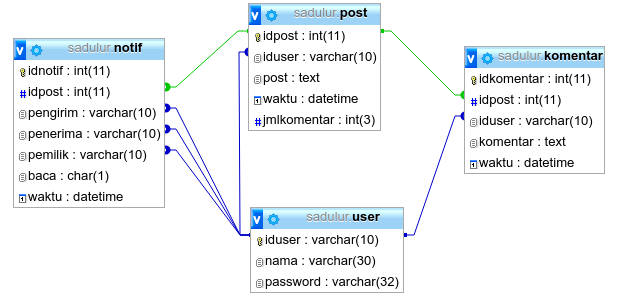
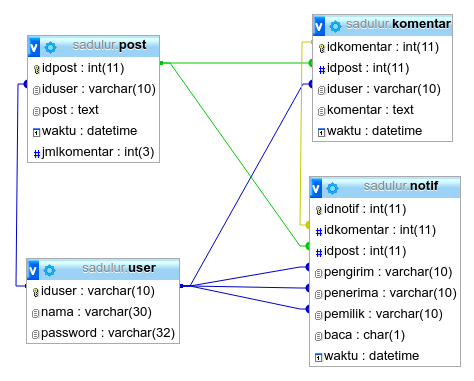
Fix bug notif :tada:

diff --git a/src/java/Dao/NotifDao.java b/src/java/Dao/NotifDao.java
@@ -41,8 +41,8 @@ import java.util.List;
 public class NotifDao {
     private Connection koneksi = new Koneksi().getKoneksi();
     private final String addNotif = "INSERT INTO "
-                                  + "notif(idpost, pengirim, penerima, baca, waktu, pemilik) "
-                                  + "values(?,?,?,?,?,?)";
+                                  + "notif(idkomentar, idpost, pengirim, penerima, baca, waktu, pemilik) "
+                                  + "values(?,?,?,?,?,?,?)";
     private final String getAll = "SELECT notif.*, Pengirim.nama AS namaPengirim, "
                                 + "Penerima.nama AS namaPenerima, Pemilik.nama AS namaPemilik "
                                 + "FROM notif "
@@ -86,6 +86,7 @@ public class NotifDao {
             while(rs.next()) {
                 Notif notif = new Notif();
                 notif.setIdNotif(rs.getInt("idnotif"));
+                notif.setIdKomentar(rs.getInt("idkomentar"));
                 notif.setIdPost(rs.getInt("idpost"));
                 notif.setPengirim(rs.getString("pengirim"));
                 notif.setNamaPengirim(rs.getString("namaPengirim"));
@@ -109,12 +110,13 @@ public class NotifDao {
             SimpleDateFormat sdf = new  SimpleDateFormat("yyyy-MM-dd HH:mm:ss");
             String waktu = sdf.format(date);
             PreparedStatement ps = koneksi.prepareStatement(addNotif);
-            ps.setInt(1, notif.getIdPost());
-            ps.setString(2, notif.getPengirim());
-            ps.setString(3, notif.getPenerima());
-            ps.setString(4, "0");
-            ps.setString(5, waktu);
-            ps.setString(6, notif.getPemilik());
+            ps.setInt(1, notif.getIdKomentar());
+            ps.setInt(2, notif.getIdPost());
+            ps.setString(3, notif.getPengirim());
+            ps.setString(4, notif.getPenerima());
+            ps.setString(5, "0");
+            ps.setString(6, waktu);
+            ps.setString(7, notif.getPemilik());
             ps.executeUpdate();
         } catch(SQLException e) {
             System.out.println(e);

diff --git a/src/java/Dao/KomentarDao.java b/src/java/Dao/KomentarDao.java
@@ -29,6 +29,7 @@ import java.sql.Connection;
 import java.sql.PreparedStatement;
 import java.sql.ResultSet;
 import java.sql.SQLException;
+import java.sql.Statement;
 import java.util.ArrayList;
 import java.util.List;
 import java.util.Date;
@@ -103,22 +104,27 @@ public class KomentarDao {
     }
     
     public int save(Komentar komentar) {
-        int status = 0;
+        int idkomentar = 0;
         try {
             Date date = new Date();
             SimpleDateFormat sdf = new  SimpleDateFormat("yyyy-MM-dd HH:mm:ss");
             String waktu = sdf.format(date);
-            PreparedStatement ps = koneksi.prepareStatement(save);
+            
+            PreparedStatement ps = koneksi.prepareStatement(save, Statement.RETURN_GENERATED_KEYS);
             ps.setInt(1, komentar.getIdpost());
             ps.setString(2, komentar.getIduser());
             ps.setString(3, komentar.getKomentar());
             ps.setString(4, waktu);
-            status = ps.executeUpdate();
+            ps.executeUpdate();
             
+            ResultSet rs = ps.getGeneratedKeys();
+            if (rs.next()) {
+                idkomentar = rs.getInt(1);
+            }
         } catch(SQLException e) {
             System.out.println(e);
         }
-        return status;
+        return idkomentar;
     }
     
     public List<Komentar> getAll(int idpost) {

diff --git a/src/java/Model/Notif.java b/src/java/Model/Notif.java
@@ -28,8 +28,16 @@ package Model;
  * @author Eka Putra <ekaputtra at gmail.com>
  */
 public class Notif {
-    private int idNotif, idPost;
+    private int idNotif, idPost, idKomentar;
     private String pengirim, namaPengirim, penerima, namaPenerima, pemilik, namaPemilik, baca, waktu;
+
+    public int getIdKomentar() {
+        return idKomentar;
+    }
+
+    public void setIdKomentar(int idKomentar) {
+        this.idKomentar = idKomentar;
+    }
 
     public int getIdNotif() {
         return idNotif;

diff --git a/README.md b/README.md
@@ -2,7 +2,7 @@
 
 Aplikasi Dulur ini merupakan aplikasi social media yang sangat sederhana, yang dibuat untuk memenuhi tugas Bahasa Pemrograman 3. Fiturnya sendiri hanya sign up, sign in, menampilkan kabar, menambah kabar, mengubah kabar, menghapus kabar, menampilkan komentar, menambah komentar, mengubah komentar, menghapus komentar, menampilkan notifikasi, dan sign out.
 
-Untuk masalah keamanan akun user belum tersimpan dengan baik oleh aplikasi Dulur ini, karena password user yang tersimpan di database tidak dienkripsi. Kemudian untuk notifikasi juga masih ada bug, jadi ketika ada user yang berkomentar di status/kabar kita, dan kemudian user tersebut menghapus komentarnya, kita akan tetap mendapat notifikasi dari komentar tersebut. Bug ini terjadi sepertinya karena desain  database yang kurang baik, karena seharusnya table notifikasi berelasi dengan table komentar.
+Untuk masalah keamanan akun user belum tersimpan dengan baik oleh aplikasi Dulur ini, karena password user yang tersimpan di database tidak dienkripsi.
 
 Jika ada kritik atau saran agar aplikasi Dulur ini bisa menjadi lebih baik, silahkan open issues atau pull request.
 
